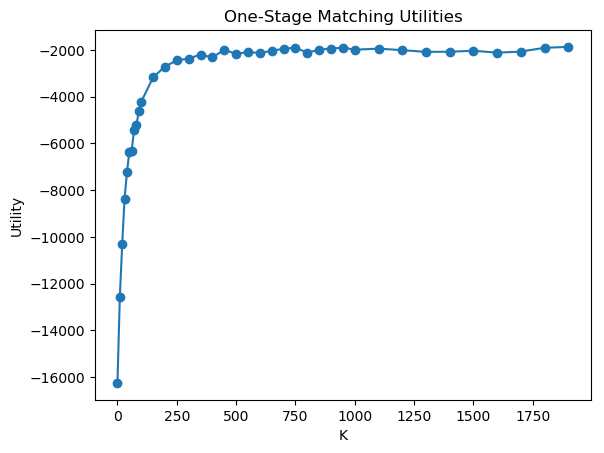
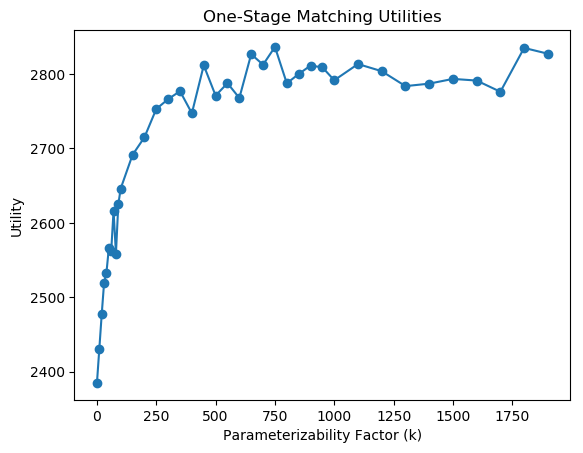
changed graphs, change utility function to exponential

diff --git a/tfa-match/simulation.py b/tfa-match/simulation.py
@@ -113,10 +113,10 @@ def compare_matchings(teachers, matching1, matching2):
     for teacher in teachers:
         prefs = teacher.preferences
         s_id = teacher.id
-        bucket1_rank = prefs.index(matching1[s_id])
-        matching1_utility -= bucket1_rank
-        bucket2_rank = prefs.index(matching2[s_id])
-        matching2_utility -= bucket2_rank
+        bucket1_rank = 2 ** (-prefs.index(matching1[s_id])) #prefs.index(matching1[s_id])
+        matching1_utility += bucket1_rank
+        bucket2_rank = 2 ** (-prefs.index(matching2[s_id]))
+        matching2_utility += bucket2_rank
         delta_rank_utility += bucket1_rank - bucket2_rank
         if bucket1_rank > bucket2_rank: total_better += 1
         elif bucket1_rank == bucket2_rank: total_same += 1
@@ -219,7 +219,7 @@ def graph_results(ks, results):
     f = plt.figure()
     plt.plot(ks, deltas, marker='o')
     plt.ylabel("Change in Utility")
-    plt.xlabel("K")
+    plt.xlabel("Parameterizability Factor (k)")
     plt.title("Change in Total Welfare from One-Stage to Two-Stage")
     f.savefig(fig_dir + "delta-utility-1stage-2stage.png", bbox_inches='tight')
     f.clear()
@@ -228,7 +228,7 @@ def graph_results(ks, results):
     f = plt.figure()
     plt.plot(ks, matching1_utilities, marker='o')
     plt.ylabel("Utility")
-    plt.xlabel("K")
+    plt.xlabel("Parameterizability Factor (k)")
     plt.title("One-Stage Matching Utilities")
     f.savefig(fig_dir + "1stage-utility.png", bbox_inches='tight')
     f.clear()
@@ -237,7 +237,7 @@ def graph_results(ks, results):
     f = plt.figure()
     plt.plot(ks, matching2_utilities, marker='o')
     plt.ylabel("Utility")
-    plt.xlabel("K")
+    plt.xlabel("Parameterizability Factor (k)")
     plt.title("Two-Stage Matching Utilities")
     f.savefig(fig_dir + "2stage-utility.png", bbox_inches='tight')
     f.clear()
@@ -269,7 +269,12 @@ def run_simulation():
         match_results = compare_matchings(teachers, one_stage_matches, two_stage_matches)
         print(match_results)
         results.append(match_results)
-        
+    
+    # print(ks)
+    # print([r['better'] for r in results])
+    # print([r['worse'] for r in results])
+    # print([r['same'] for r in results])
+
     graph_results(ks, results)
 
     print("**************** Varying Proportion that are Random ******************")
@@ -291,7 +296,7 @@ def run_simulation():
         plt.plot(x_vals, [m["delta"] for m in different_randomness_results], marker='o')
         plt.ylabel("Utility")
         plt.xlabel("Proportion with Randomness (%)")
-        plt.title("Change in Welfare with Varying Proportion of Teachers with Random Preferences (K = " + str(k) + ")")
+        plt.title("Change in Welfare with Varying Proportion of Teachers with Random Preferences (k = " + str(k) + ")")
         f.savefig(fig_dir + "proportions-k-" + str(k) + ".png", bbox_inches='tight')
         f.clear()
         plt.close(f)
